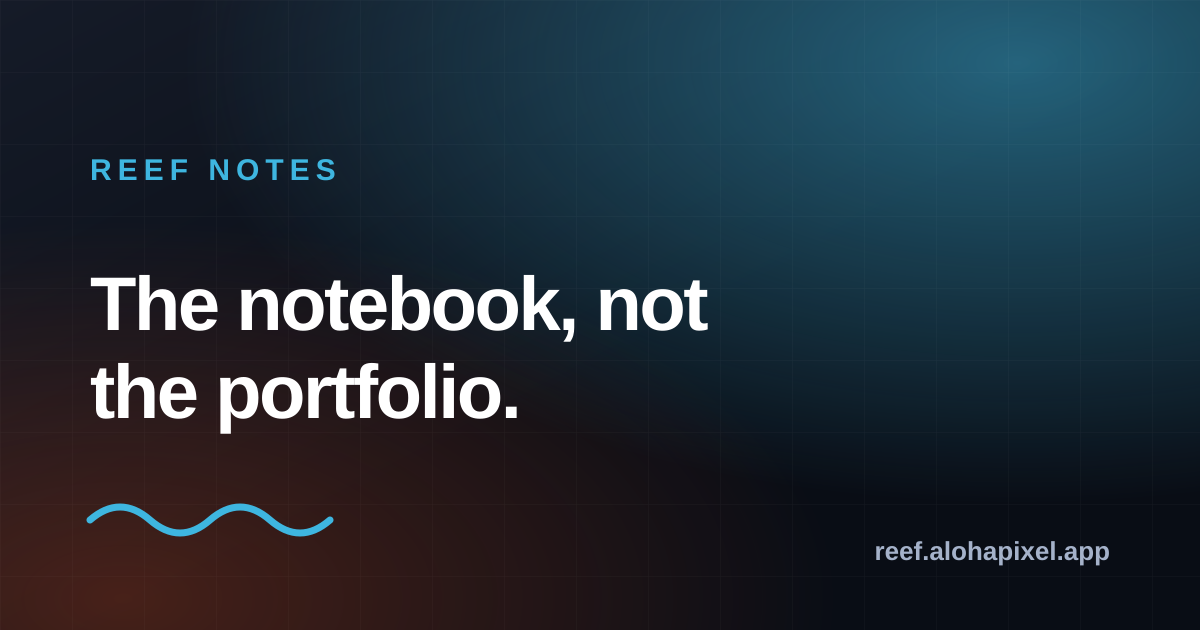
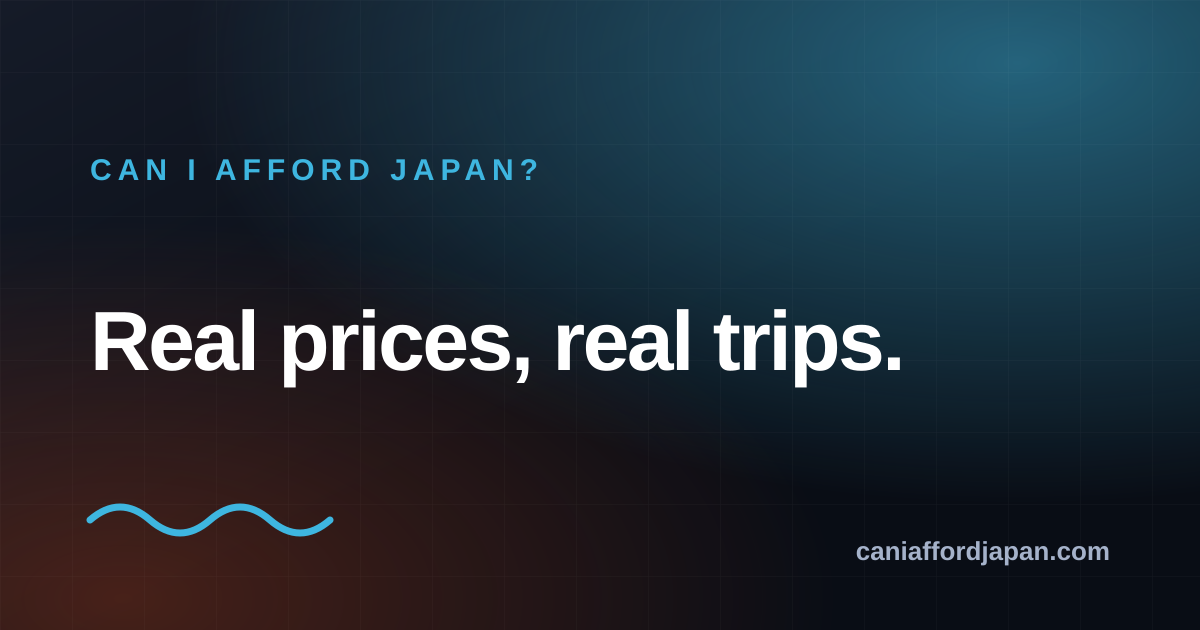
Fix share-card images still showing Reef's demo branding
scripts/og.mjs pulls colors from tokens.css (rebrand-aware) but had
hardcoded demo text ("Reef Notes", "The notebook, not the portfolio.") and
a hardcoded reef.alohapixel.app domain baked into the generated PNGs. I ran
pnpm og during the original migration but only checked the success message,
not the actual images, so this went live. Fixed the copy and domain, and
added a note in CLAUDE.md to actually open the generated PNG next time.

Claude-Session: https://claude.ai/code/session_01Jon3C3k319V7LtoJGtgDxP

Changed region(s): [[0.0617, 0.4222, 0.7708, 0.6937], [0.0617, 0.2413, 0.4625, 0.3016], [0.7092, 0.8444, 0.925, 0.9048]]

diff --git a/CLAUDE.md b/CLAUDE.md
@@ -15,6 +15,16 @@ a real Playwright Chromium install to regenerate (`pnpm exec playwright
 install chromium` then `pnpm build && pnpm poster`), not urgent for the
 daily post routine.
 
+`public/og/*.png` (the share card images used when a link to this site is
+pasted into iMessage, Slack, etc.) are generated by `pnpm og`, are checked
+into the repo, and do NOT regenerate on `pnpm build`. It's a script, edit
+the `PAGES` array and the hardcoded domain text directly in
+`scripts/og.mjs` if the site name, tagline, or domain ever changes, then
+run `pnpm og` and commit the new PNGs. After running it, actually open one
+of the generated PNGs (Read tool, or any image viewer) before committing,
+don't just trust the "N images generated" success message, that message
+prints even if the text inside them is stale demo copy nobody checked.
+
 ## Daily article routine
 
 One new post per day about something affordable in Japan: a free attraction,
